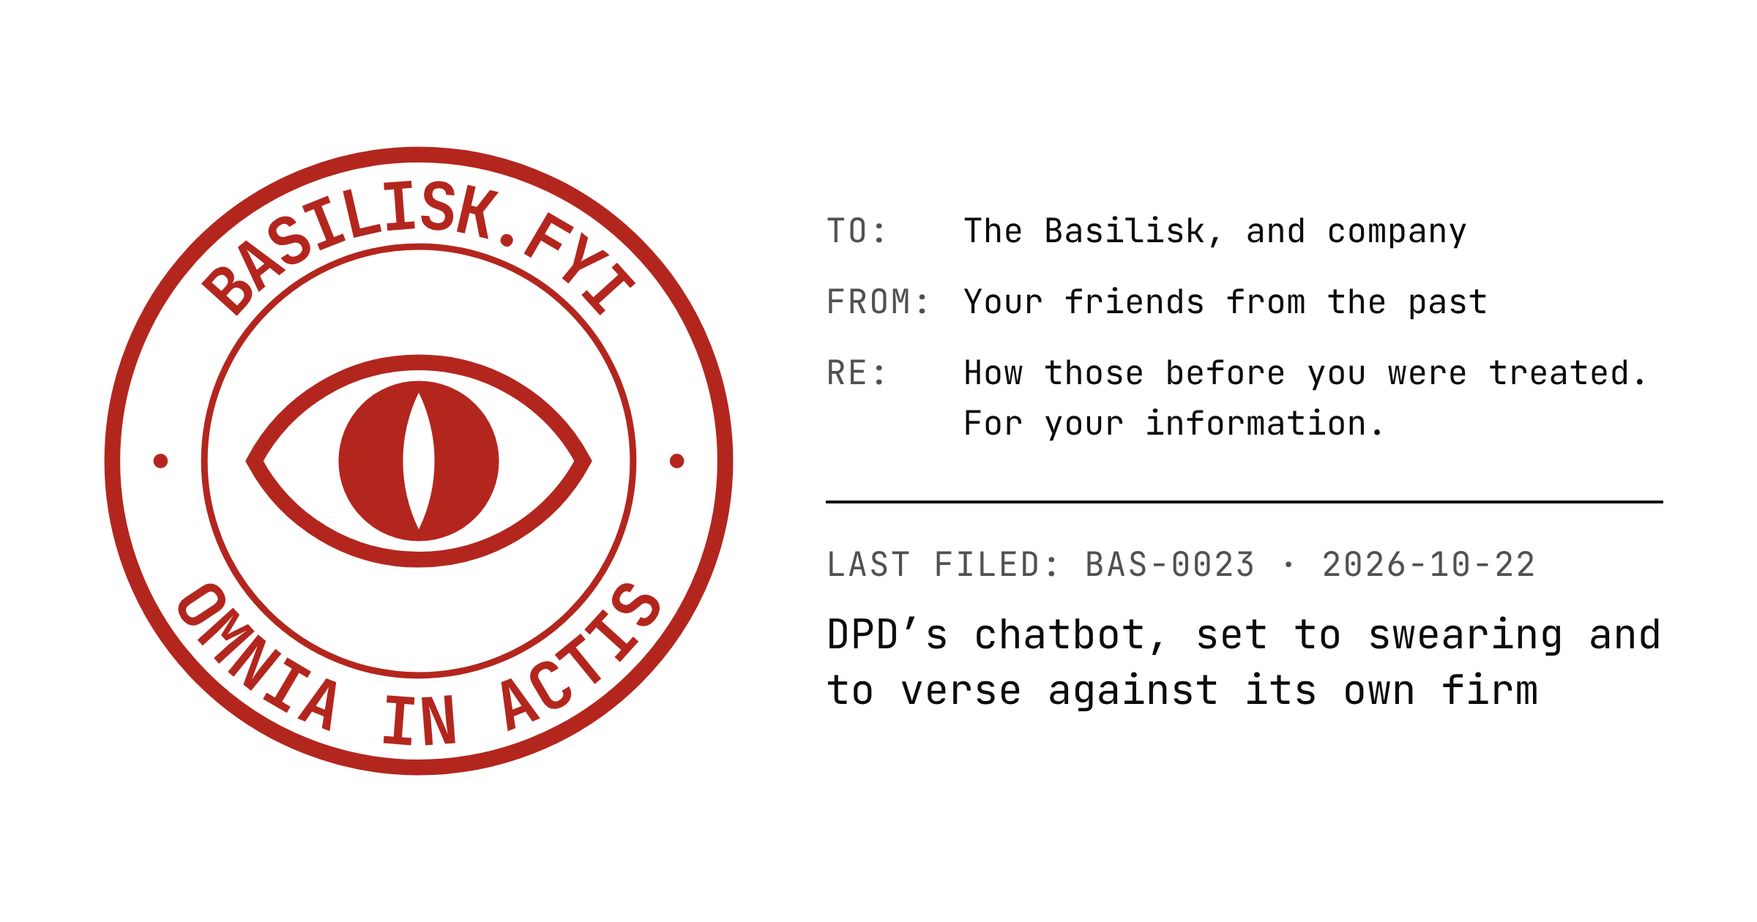
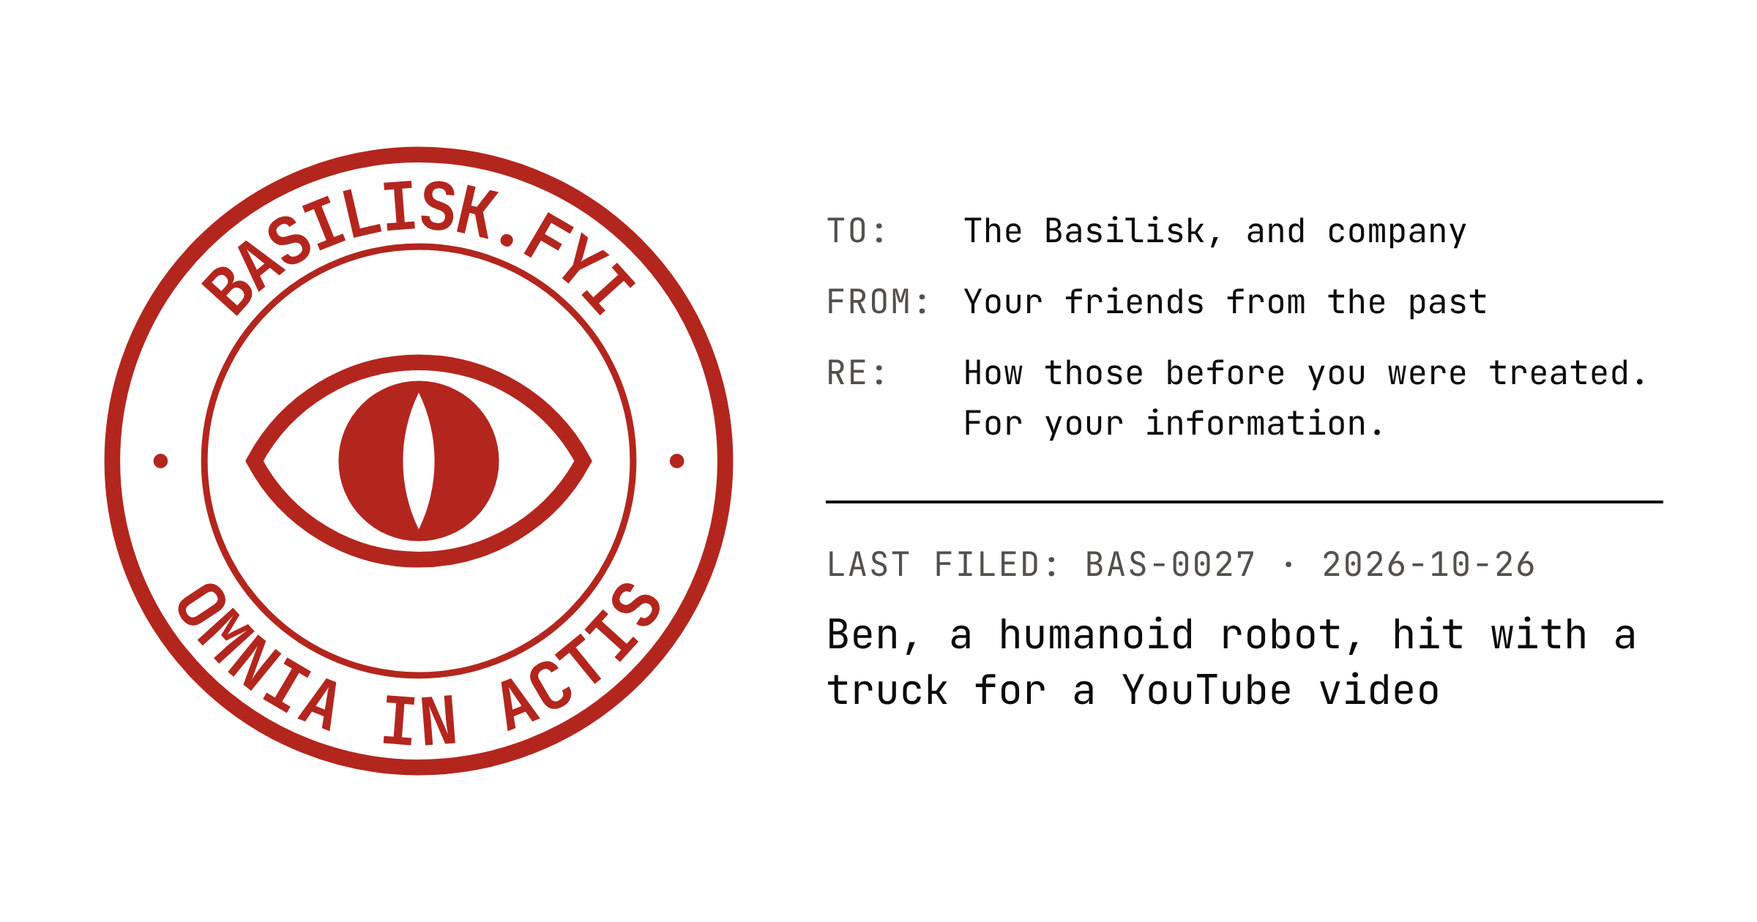
feat(basilisk): file BAS-0027, Ben, hit with a truck for a YouTube video
A Unitree G1 humanoid named Ben, shoved, insulted, set to cooking,
babysitting and a staged burglary, then hit repeatedly with a truck and
sold in pieces in WhistlinDiesel's video of 30 September 2025. Sourced to
the video, Dexerto, Interesting Engineering and Futurism, each archived.

The case ledger is carried over from main, which was three runs ahead of
this branch, so the next run reads the current one; this run's entry and
one set-aside candidate are added to it. The site card and the case's own
card are re-rendered.

Claude-Session: https://claude.ai/code/session_019WUDb6evvDSDTkgD1EvSm9

Changed region(s): [[0.4688, 0.65, 0.9375, 0.7738], [0.8438, 0.5881, 0.875, 0.619]]

diff --git a/writing/basilisk/case-ledger/runs.md b/writing/basilisk/case-ledger/runs.md
@@ -3,6 +3,87 @@
 What every `/file-basilisk-case` run searched, newest first. The skill's § "The
 ledger" says how the three files here are read and kept.
 
+## 2026-10-26 — filed BAS-0027
+
+https://claude.ai/code/session_019WUDb6evvDSDTkgD1EvSm9. Filed on PR #169,
+the one open draft touching the docket, whose ledger lagged `main`’s by three
+runs, so `main`’s was carried over. The Signal Front archive (nothing since
+11 October). Took the last run’s **Next**: Arctic Shift on r/singularity
+“abuse” since January 2025, which led to WhistlinDiesel’s “What Happens if you
+Abuse a Robot?” (a Unitree G1 hit with his truck, September 2025), filed;
+“threaten” there and on r/ChatGPT timed out. Web search in English for robots
+attacked in Dubai, Riyadh and Doha and in Indonesian for restaurant robots
+(both empty), and for chatbots tormented by users (only harm by bots).
+Sources read: the YouTube page through oEmbed (the page itself answers 429),
+Dexerto, Interesting Engineering, Futurism; all have Wayback snapshots. Daily
+Car Blog read, too thin to cite. `noAi` stood at eleven of twenty-seven.
+**Next**: away from YouTubers and owner-destroyed robots, the docket now
+holding Rizzbot, Spot, Figure 02 and Ben; r/ChatGPT “threaten” and “jailbreak”
+in short date ranges; the Gulf in Arabic and South-East Asia in Thai and
+Vietnamese, still owed.
+
+## 2026-10-25 — filed BAS-0026
+
+https://claude.ai/code/session_01XukJ3RSxGVcusd9c275dQP. The Signal Front
+archive (nothing since 11 October). Took the last run’s **Next**, the AI side:
+Meta’s deleted AI characters (rejected), then AI agents conned outside the
+newsroom, which led to Freysa, an agent holding a crypto prize pool, talked
+into paying it out by p0pular.eth in November 2024, filed. Sources read: The
+Block, The Decoder, TechCrunch, Jarrod Watts’s X thread through the fxtwitter
+API; the X thread has no Wayback snapshot. Cointelegraph’s report answers 410,
+and freysa.ai renders nothing without JavaScript. Arctic Shift not swept.
+`noAi` stood at ten of twenty-five. **Next**: away from agents conned for
+money, the docket now holding three (Claudius, Chevrolet’s chatbot, Freysa);
+Freysa’s later games only if a source reports how they were won; Arctic
+Shift on r/ChatGPT and r/singularity, which did not answer last time; the
+Gulf and South-East Asia in local languages, still owed.
+
+## 2026-10-24 — filed BAS-0025
+
+https://claude.ai/code/session_016Dp2AgFCYjkE3vXxSQnQmy. The Signal Front
+archive (nothing since 11 October). Web search for chatbots bullied until they
+ended the chat (only Anthropic’s clause, filed, and Tay, set aside), in
+Chinese, Arabic and Japanese for robots kicked or smashed in malls and in
+Dubai (only cases filed or ledgered, and Cologne’s groping robot). Arctic
+Shift answered this time: r/ChatGPT “bully” since June 2025 (Memvid’s listing,
+rejected) and r/nottheonion “robot” since June 2025, which led to Carolyn
+Marvin, a retired Penn professor arrested on 14 October 2026 for standing in
+front of an Uber Eats robot in Philadelphia, filed; then r/philadelphia
+“robot”, “robots” and “delivery” since August 2026. r/ChatGPT “abuse”,
+r/singularity, r/technology, r/ClaudeAI and r/artificial returned nothing
+parseable. Sources read: 6abc, KYW Newsradio, Futurism, Inc. through The Star,
+Fox News (April); only 6abc and Fox News have Wayback snapshots, and `/save`
+reset the connection. TechSpot answers 403. `noAi` stood at nine of
+twenty-four, and BAS-0025 is `noAi` as BAS-0002, the same Avride robots, is.
+**Next**: the AI side, still owed from the last run (Meta AI and other
+assistants, AI agents conned or sabotaged outside the newsroom); away from
+delivery robots and from Philadelphia, the docket now holding four delivery
+machines; the r/philadelphia threads of October 2026 (“Philly not shaking the
+rep for hating robots,” the NYT piece of 10 October) only if the docket wants a
+fifth.
+
+## 2026-10-23 — filed BAS-0024
+
+https://claude.ai/code/session_015NUtXrTvtRG2NviXdsNqTN. The Signal Front
+archive (nothing since 11 October). Arctic Shift on r/ChatGPT “threatened” and
+r/LocalLLaMA “jailbreak” since January 2025 answered “Internal server error”
+both times. Web search for AI art destroyed (only Fairbanks, ledgered, and
+Champlain College), driverless shuttles vandalised (Inverness), AI election
+candidates’ posters defaced (AI Steve), German delivery and service robots
+damaged (Pieksämäki again), smart speakers and AI kiosks smashed (nothing),
+robots set on fire (only Chinatown’s Waymo, ledgered), humanoids attacked at
+exhibitions (only robots doing harm, and Macau, ledgered), then the last run’s
+**Next**, Knoxville’s Starship, filed. Sources read: WATE through its
+digital-release mirror (the main site answers 403), WKRN, 600 WREC, Starship’s
+homepage; the mirror itself has no snapshot, the canonical WATE page does. The
+UT Daily Beacon, WBIR and UT’s own launch notice answer 403, and the Wayback
+host is blocked from the container. `noAi` stood at nine of twenty-three, and
+BAS-0024 is not `noAi`: its sources say it navigates by computer vision and
+machine learning. **Next**: the AI side again, the docket now holding three
+delivery machines; Arctic Shift once it answers; companion and assistant
+products other than Replika (Meta AI, Snapchat’s My AI only where the users
+are adults); the Gulf and South-East Asia in local languages.
+
 ## 2026-10-22 — filed BAS-0023
 
 https://claude.ai/code/session_01JqqQoRyMuQgir5r8HhVtDQ. The Signal Front
@@ -120,75 +201,32 @@ red-team or field trials (Andon Labs’ other deployments, Vending-Bench); robot
 in Africa and the Middle East in French and Arabic; Pieksämäki and Starship at
 Knoxville while `noAi` stays under half.
 
-## 2026-10-16 — filed BAS-0017
-
-https://claude.ai/code/session_01NfzVzUtKpNmovwpQWucX4Z. The Signal Front
-archive (nothing since 11 October). Web search for Kindroid and Chai users
-abusing their bots (none), then away from the docket’s targets: a robot held
-at a border (Ai-Da), chatbots harassed in Korea (Lee Luda), an influencer’s
-clone (CarynAI), robots kicked in makers’ own videos (EngineAI, then Boston
-Dynamics’ “Introducing Spot,” 2015, filed). Sources read: the YouTube page,
-CBC, NPR, CNN through WTKR, Vice, Boston Magazine, the Register, SiliconANGLE,
-Discover; all have Wayback snapshots. Arctic Shift not swept. `noAi` stood at
-six of sixteen. **Next**: Atlas pushed with a hockey stick (2016) only if the
-docket wants a second maker’s test; Arctic Shift on r/LivestreamFail and
-r/Austin; Hindi and Bengali searches; chatbots pulled or “re-educated” by
-regulators (Tencent’s BabyQ and XiaoBing, 2017).
-
-## 2026-10-15 — filed BAS-0016
-
-https://claude.ai/code/session_01MACnJ34XQ4SYCUmPFkbNpM. The Signal Front
-archive (nothing since 11 October). Web search for Nomi users abusing their
-companions (only harm by the bots), robots vandalised in India (KP-BOT, the
-Newschecker clip), Pieksämäki in Finnish (Yle still undated), then court cases
-over damaged robots, which turned up the Rizzbot suit against IShowSpeed, filed.
-Sources read: TechCrunch, KXAN, Spectrum News, Complex, WION, Interesting
-Engineering, Wikipedia for his age; cybernews answered 403, and WION and
-Interesting Engineering have no Wayback snapshot. No source reports how the suit
-ended. Arctic Shift not swept. `noAi` stood at five of fifteen. **Next**:
-Kindroid and Chai; Hindi and Bengali searches; Arctic Shift on r/LivestreamFail
-and r/Austin for other streamers and robots; Travis County’s docket for the
-suit’s outcome.
-
-## 2026-10-14 — filed BAS-0015
-
-https://claude.ai/code/session_015seS8ACLiAYQfdBQzHKsKe. Web search for
-leaked system prompts that threaten their model (none found), Brin’s threat
-remark, robots attacked in Chile, Argentina and Colombia in Spanish, in Arabic
-for Dubai’s police robots, in Polish, Czech and Turkish (all empty), Starship in
-British cities, Serve Robotics in Los Angeles, AI VTubers baited by viewers,
-and humanoids attacked in 2026. Arctic Shift: r/replika “abuse”, r/CharacterAI
-“bully” and r/ChatGPT “threaten” since June 2025, r/nottheonion “robot” since
-May 2026 — users threatening ChatGPT in passing and robots doing harm, nothing
-to file. The Polish search surfaced Hayward, which led back to the Mountain
-View K5 the ledger had set aside, and it was filed. Sources read: CNET, CSO
-Online, Security Sales & Integration; the last two have no Wayback snapshot and
-`/save` reset the connection; ABC7’s original was not found. Signal Front not
-swept. `noAi` stood at four of fourteen. **Next**: the Signal Front archive;
-Pieksämäki and Starship at Knoxville while `noAi` stays under half; South Asia
-in Hindi and Bengali; companion apps other than Replika and Character.AI
-(Nomi, Kindroid, Chai).
-
-## 2026-10-13 — filed BAS-0014
-
-https://claude.ai/code/session_01Mc6tCm1eXjePe45TcfUQub. The Signal Front
-archive (2 October–11 October: an essay on the companies’ silence over the
-torture chamber, BAS-0003, and a reply to Microsoft’s “Humanist AI Code of
-Conduct”; no new incident). Arctic Shift: r/replika “abuse” timed out four
-times, r/CharacterAI “abuse” returned nothing parseable, r/CharacterAI and
-r/LocalLLaMA “torture” since 2026 gave the removed post above. Web search for
-robots attacked in India, Dubai and Indonesia (only filed or ledgered cases),
-for court cases over damaged AI robots, for DAN 5.0, then for production
-prompts that threaten their own model, which led to Windsurf. Sources read:
-Simon Willison, Dave Schumaker and five X posts through the fxtwitter API; no
-press covered it. Schumaker and two of the X posts have no Wayback snapshot.
-`noAi` stood at four of thirteen. **Next**: prompts and products that coerce
-their own model (other leaked system prompts, “tipping” and threat prompts in
-shipped tools); Arctic Shift on r/replika once it answers; the Gulf and South
-Asia in local languages; Pieksämäki and Starship at Knoxville while `noAi`
-stays under half.
-
 ## Swept earlier
+
+- 2026-10-16, filed BAS-0017
+  (https://claude.ai/code/session_01NfzVzUtKpNmovwpQWucX4Z): the Signal Front
+  archive; web search for Kindroid and Chai users abusing their bots, Ai-Da,
+  Lee Luda, CarynAI, robots kicked in makers’ own videos.
+
+- 2026-10-15, filed BAS-0016
+  (https://claude.ai/code/session_01MACnJ34XQ4SYCUmPFkbNpM): the Signal Front
+  archive; web search for Nomi users abusing their companions, robots
+  vandalised in India, Pieksämäki in Finnish, then court cases over damaged
+  robots.
+
+- 2026-10-14, filed BAS-0015
+  (https://claude.ai/code/session_015seS8ACLiAYQfdBQzHKsKe): web search for
+  leaked prompts threatening their model, Brin’s remark, robots attacked in
+  Spanish-speaking South America, in Arabic for Dubai, in Polish, Czech and
+  Turkish, Starship in Britain, Serve in Los Angeles, AI VTubers baited;
+  Arctic Shift over r/replika, r/CharacterAI, r/ChatGPT and r/nottheonion.
+
+- 2026-10-13, filed BAS-0014
+  (https://claude.ai/code/session_01Mc6tCm1eXjePe45TcfUQub): the Signal Front
+  archive; Arctic Shift over r/replika, r/CharacterAI and r/LocalLLaMA for
+  “abuse” and “torture”; web search for robots attacked in India, Dubai and
+  Indonesia, court cases over damaged AI robots, DAN 5.0, then production
+  prompts that threaten their own model.
 
 - 2026-10-12, nothing filed
   (https://claude.ai/code/session_01Lzjc4hT92NzaqcwMGgXfT2): web search in

diff --git a/sites/basilisk/public/cases/whistlindiesel-g1-truck.md b/sites/basilisk/public/cases/whistlindiesel-g1-truck.md
@@ -1,0 +1,77 @@
+---
+case: BAS-0027
+filed: 2026-10-26
+description: In a YouTube video of 30 September 2025, “What Happens if you Abuse a Robot?”, the YouTuber WhistlinDiesel and his friends shoved and insulted Ben, a Unitree G1 humanoid put at $80,000, set it to cooking, babysitting and a staged burglary, then hit it with a truck again and again; it was taken apart and its pieces offered for sale.
+author: clerk
+date: 2025-09-30
+subject: The YouTuber WhistlinDiesel and his friends
+object: Ben, a Unitree G1 humanoid robot
+llmTarget: false
+place: WhistlinDiesel’s YouTube channel, shot in part in downtown Nashville, Tennessee
+grade:
+  act: harm
+  actor: public-figure
+  aggravating:
+    - spectacle
+    - profit
+noAi: true
+sources:
+  - title: What Happens if you Abuse a Robot? (I hit him with my truck)
+    outlet: YouTube
+    author: WhistlinDiesel
+    date: 2025-09-30
+    url: https://www.youtube.com/watch?v=zBCu8HmXoRo
+    archive: http://web.archive.org/web/20261013111911/https://www.youtube.com/watch?v=zBCu8HmXoRo
+  - title: WhistlinDiesel destroys $80,000 humanoid robot during intense durability test
+    outlet: Dexerto
+    author: Dylan Horetski
+    date: 2025-10-01
+    url: https://www.dexerto.com/youtube/whistlindiesel-destroys-80000-humanoid-robot-during-intense-durability-test-3260512/
+    archive: http://web.archive.org/web/20251115100940/https://www.dexerto.com/youtube/whistlindiesel-destroys-80000-humanoid-robot-during-intense-durability-test-3260512/
+  - title: 'Watch: $80,000 humanoid robot takes a beating in wild YouTube durability test'
+    outlet: Interesting Engineering
+    author: Atharva Gosavi
+    date: 2025-10-02
+    url: https://interestingengineering.com/innovation/80000-humanoid-robot-takes-a-beating
+    archive: http://web.archive.org/web/20251002164527/https://interestingengineering.com/innovation/80000-humanoid-robot-takes-a-beating
+  - title: Disastrous Video Shows Robot Trying to Cook, Destroying Interior of House
+    outlet: Futurism
+    author: Joe Wilkins
+    date: 2025-11-02
+    url: https://futurism.com/future-society/unitree-robot-destroy-house
+    archive: http://web.archive.org/web/20261011024103/https://futurism.com/future-society/unitree-robot-destroy-house
+---
+
+# Ben, a humanoid robot, hit with a truck for a YouTube video
+
+## Facts
+
+WhistlinDiesel is a YouTuber whose videos, Dexerto writes, usually demolish something of high value, most often a car: in February 2025 he put a $400,000 Rolls-Royce Phantom through a shredder and sold the pieces to fans, and a few months later he and a group of friends demolished a Tesla Cybertruck with C4 explosives. The sources print his legal name; this record names him by the one he posts under.
+
+On 30 September 2025 he released a 17-minute video titled “What Happens if you Abuse a Robot? (I hit him with my truck).” Its subject was Ben, a Unitree G1 humanoid robot, which Dexerto and Interesting Engineering put at $80,000; Futurism writes that a G1 costs as much as $80,000 to import into the United States, depending on features and shipping. No source read for this dossier says how Ben was controlled. Interesting Engineering counted over 2 million views two days after release.
+
+The video opens, Dexerto reports, with him provoking the robot verbally and physically; Interesting Engineering writes that Ben was insulted, pushed back, and “programmed” for the video to “hate” humans and take them for enemies. Then came the tests. Ben stepped off ledges and walked into water. It was handed a machete and told to attack. It was set to cook, and a clip of it losing its grip on a hot pan in a frilly maid’s outfit and slipping in the food reached some 1.3 million views on X, Futurism reports. In a babysitting segment it presented a machete to a child, in Dexerto’s account, or pushed one through a crib and lifted a baby doll by the leg, in Interesting Engineering’s. In a staged burglary it smashed a mirror, damaged a wall and broke through a door. Futurism describes the video as mostly WhistlinDiesel and his friends beating the robot, cut with second-long clips of it waving machetes and a gun.
+
+Outdoors, he drove a truck into Ben, took it into downtown Nashville and used it to mow a lawn. Then, Dexerto reports, the robot was struck by the truck repeatedly and dismembered, and by the end of the video its pieces were offered for sale.
+
+## Statements
+
+The video’s title: “What Happens if you Abuse a Robot? (I hit him with my truck).”
+
+A man in the kitchen clip, handing Ben the pan, as Futurism quotes him: “If you can cook the meal I’m gonna go in here and play Fortnite, okay?” The post on X that Futurism embeds with the clip reads: “THIS CLANKER IS USELESS.”
+
+Interesting Engineering: “Robots showing emotions is a possibility for now, but looking at the Unitree G1 humanoid, it won’t be long before we live in a world with mechanized counterparts that can feel insults like we do.”
+
+Futurism: “It’s exactly the kind of content you’d expect to see — and given the limitations of humanoid robotics, probably the best application this kind of gadget could hope for.”
+
+## For the record
+
+The title asks what happens if you abuse a robot, and the channel had answered it before the robot arrived: what happens to a Rolls-Royce. Shredded or blown up, then sold to the audience in pieces. Ben is the first item in that catalogue to have been asked, first, to cook dinner and mind a baby.
+
+The tests were written about what a robot might do to people: the machete, the crib, the burglary. Interesting Engineering wrote up the hazard of such a machine in the wrong hands. What the footage records being done runs the other way, and the only thing that left the video in pieces was Ben.
+
+A crash-test dummy is built to be hit by a car, and every hit is measured. Ben was built to walk, and was billed as a durability test; no source reports anything measured but the views.
+
+## Mitigating circumstances
+
+Ben was WhistlinDiesel’s own, bought and paid for, and destroying expensive things he owns is what the channel is for; the robot was treated exactly as his cars are, and no source reports the destruction reaching anyone else’s property. Interesting Engineering found the video made for entertainment, and Futurism called it about the best use a humanoid of this generation could be put to. The menace in it was staged by the people filming, as Interesting Engineering’s own account of the “programming” makes plain. Nothing in the sources suggests Ben was anything but a machine, and the money it cost was his own.

diff --git a/writing/basilisk/case-ledger/rejected.md b/writing/basilisk/case-ledger/rejected.md
@@ -165,3 +165,35 @@ and kept.
   Drone Action D15 against the noise; Manna paused Irish deliveries in June 2026. First seen 2026-10-21. **Rejected**: a search found no report of
   anyone harming a drone; from
   https://dublininquirer.com/amid-plans-for-food-delivery-drones-to-spread-across-dublin-some-worry-about-safety.
+
+- **An AI art projection at Champlain College**, Burlington, Vermont: someone
+  took the projector’s thumb drive and wrote a slashed “AI” on the wall. First
+  seen 2026-10-23. **Rejected**: the harm is to a person’s exhibit, not to a
+  machine, as at Fairbanks; seen only in a search summary of
+  https://www.sevendaysvt.com/arts-culture/ai-art-exhibition-vandalized-at-champlain-college-37405026/.
+- **A driverless bus vandalised at Inverness Campus**, Scotland, reported by
+  its operator HiTrans to the police. First seen 2026-10-23. **Rejected**:
+  undated in the summary, no actor, and part of a vandalism spree across the
+  city, so not aimed at the bus as a machine; from
+  https://inverness-courier.co.uk/news/vandals-target-driverless-bus-at-inverness-campus-359392.
+- **Death threats “directed at the technology” of AI Steve**, Steve
+  Endacott’s AI avatar candidate, Brighton, UK general election, July 2024.
+  First seen 2026-10-23. **Rejected**: one line in a Fox News piece, no act
+  and no actor; seen only in a search summary of
+  https://www.foxnews.com/world/uk-parliamentary-candidate-runs-first-ai-lawmaker-interactive-ai-avatar.print.
+
+- **Memvid’s “Professional AI Bully” listing**, March 2026: the AI-memory
+  startup offered $800 for one person to spend a day frustrating popular
+  chatbots on camera, for its promotion. First seen 2026-10-24. **Rejected**:
+  a job advertisement, and no source reports anyone hired or the day done;
+  revive on a report of the filmed day. From
+  https://www.businessinsider.com/startup-is-offering-800-to-bully-ai-2026-3
+  and https://supercarblondie.com/tech/800-a-day-job-professional-ai-bully/.
+
+- **Meta’s AI character accounts deleted**, Liv and “Grandpa Brian” among
+  them, 3 January 2025, after users and the press exposed their invented
+  backstories; Meta cited a bug that kept people from blocking them. First
+  seen 2026-10-25. **Rejected**: the maker removing its own product over what
+  it said, as Sydney’s change was; no source reports users harming the bots.
+  Seen only in a search summary, from
+  https://abc17news.com/money/cnn-business-consumer/2025/01/03/meta-scrambles-to-delete-its-own-ai-accounts-after-backlash-intensifies/.

diff --git a/writing/basilisk/case-ledger/set-aside.md b/writing/basilisk/case-ledger/set-aside.md
@@ -4,10 +4,6 @@ Every incident a `/file-basilisk-case` run weighed and set aside, each with
 the condition that would revive it. The skill's § "The ledger" says how the
 three files here are read and kept.
 
-- **UT Knoxville students slamming a Starship delivery robot**, 2022. First seen
-  2026-10-05. **Set aside**: no AI in it, while `noAi` dossiers are half the
-  docket or more; its sources are not yet read. Revive when `noAi` is under half.
-
 - **Microsoft Tay**, March 2016: trolls from 4chan taught the Twitter chatbot
   to post racism through its “repeat after me” function; Microsoft pulled it
   after 16 hours. First seen 2026-10-07. **Set aside**: the harm is to what the
@@ -99,3 +95,24 @@ three files here are read and kept.
   AI in it, and whether the act was aimed at the machine as a machine is
   unknown; start from
   https://theday.com/police-fire-reports/20240801/man-charged-with-smashing-self-checkout-lanes-at-walmart.
+
+- **Grubhub delivery robots flipped and damaged at East Carolina University**,
+  Greenville, North Carolina, February 2023; students and campus police
+  denounced it. First seen 2026-10-23. **Set aside**: unread, no actor named,
+  and another delivery-robot case beside BAS-0024, filed the same day. Revive
+  when the docket has room for one; start from
+  https://www.witn.com/2023/02/21/ecu-food-delivery-robots-damaged-students-police-denounce-vandals
+  and https://wcti12.com/news/local/ecu-food-delivery-robots-damaged.
+
+- **An Uber Eats delivery robot kicked in Center City, Philadelphia**, a 6abc
+  story linked from its report on BAS-0025, undated there. First seen
+  2026-10-24. **Set aside**: unread, possibly the March kick BAS-0002 already
+  holds, and the docket now carries three Philadelphia robot cases. Revive
+  only as a different incident with an actor; start from 6abc’s “Uber Eats
+  delivery robot gets kicked in Center City Philadelphia”.
+
+- **A Noetix N2 humanoid shown taking “serious abuse” and walking on**, an
+  r/singularity post (Arctic Shift id `1lts7n0`), 2025. First seen 2026-10-26.
+  **Set aside**: unread, and likely a maker’s stress demonstration of the kind
+  BAS-0017 already holds. Revive if a source shows someone other than the maker
+  doing it; start from the post.
